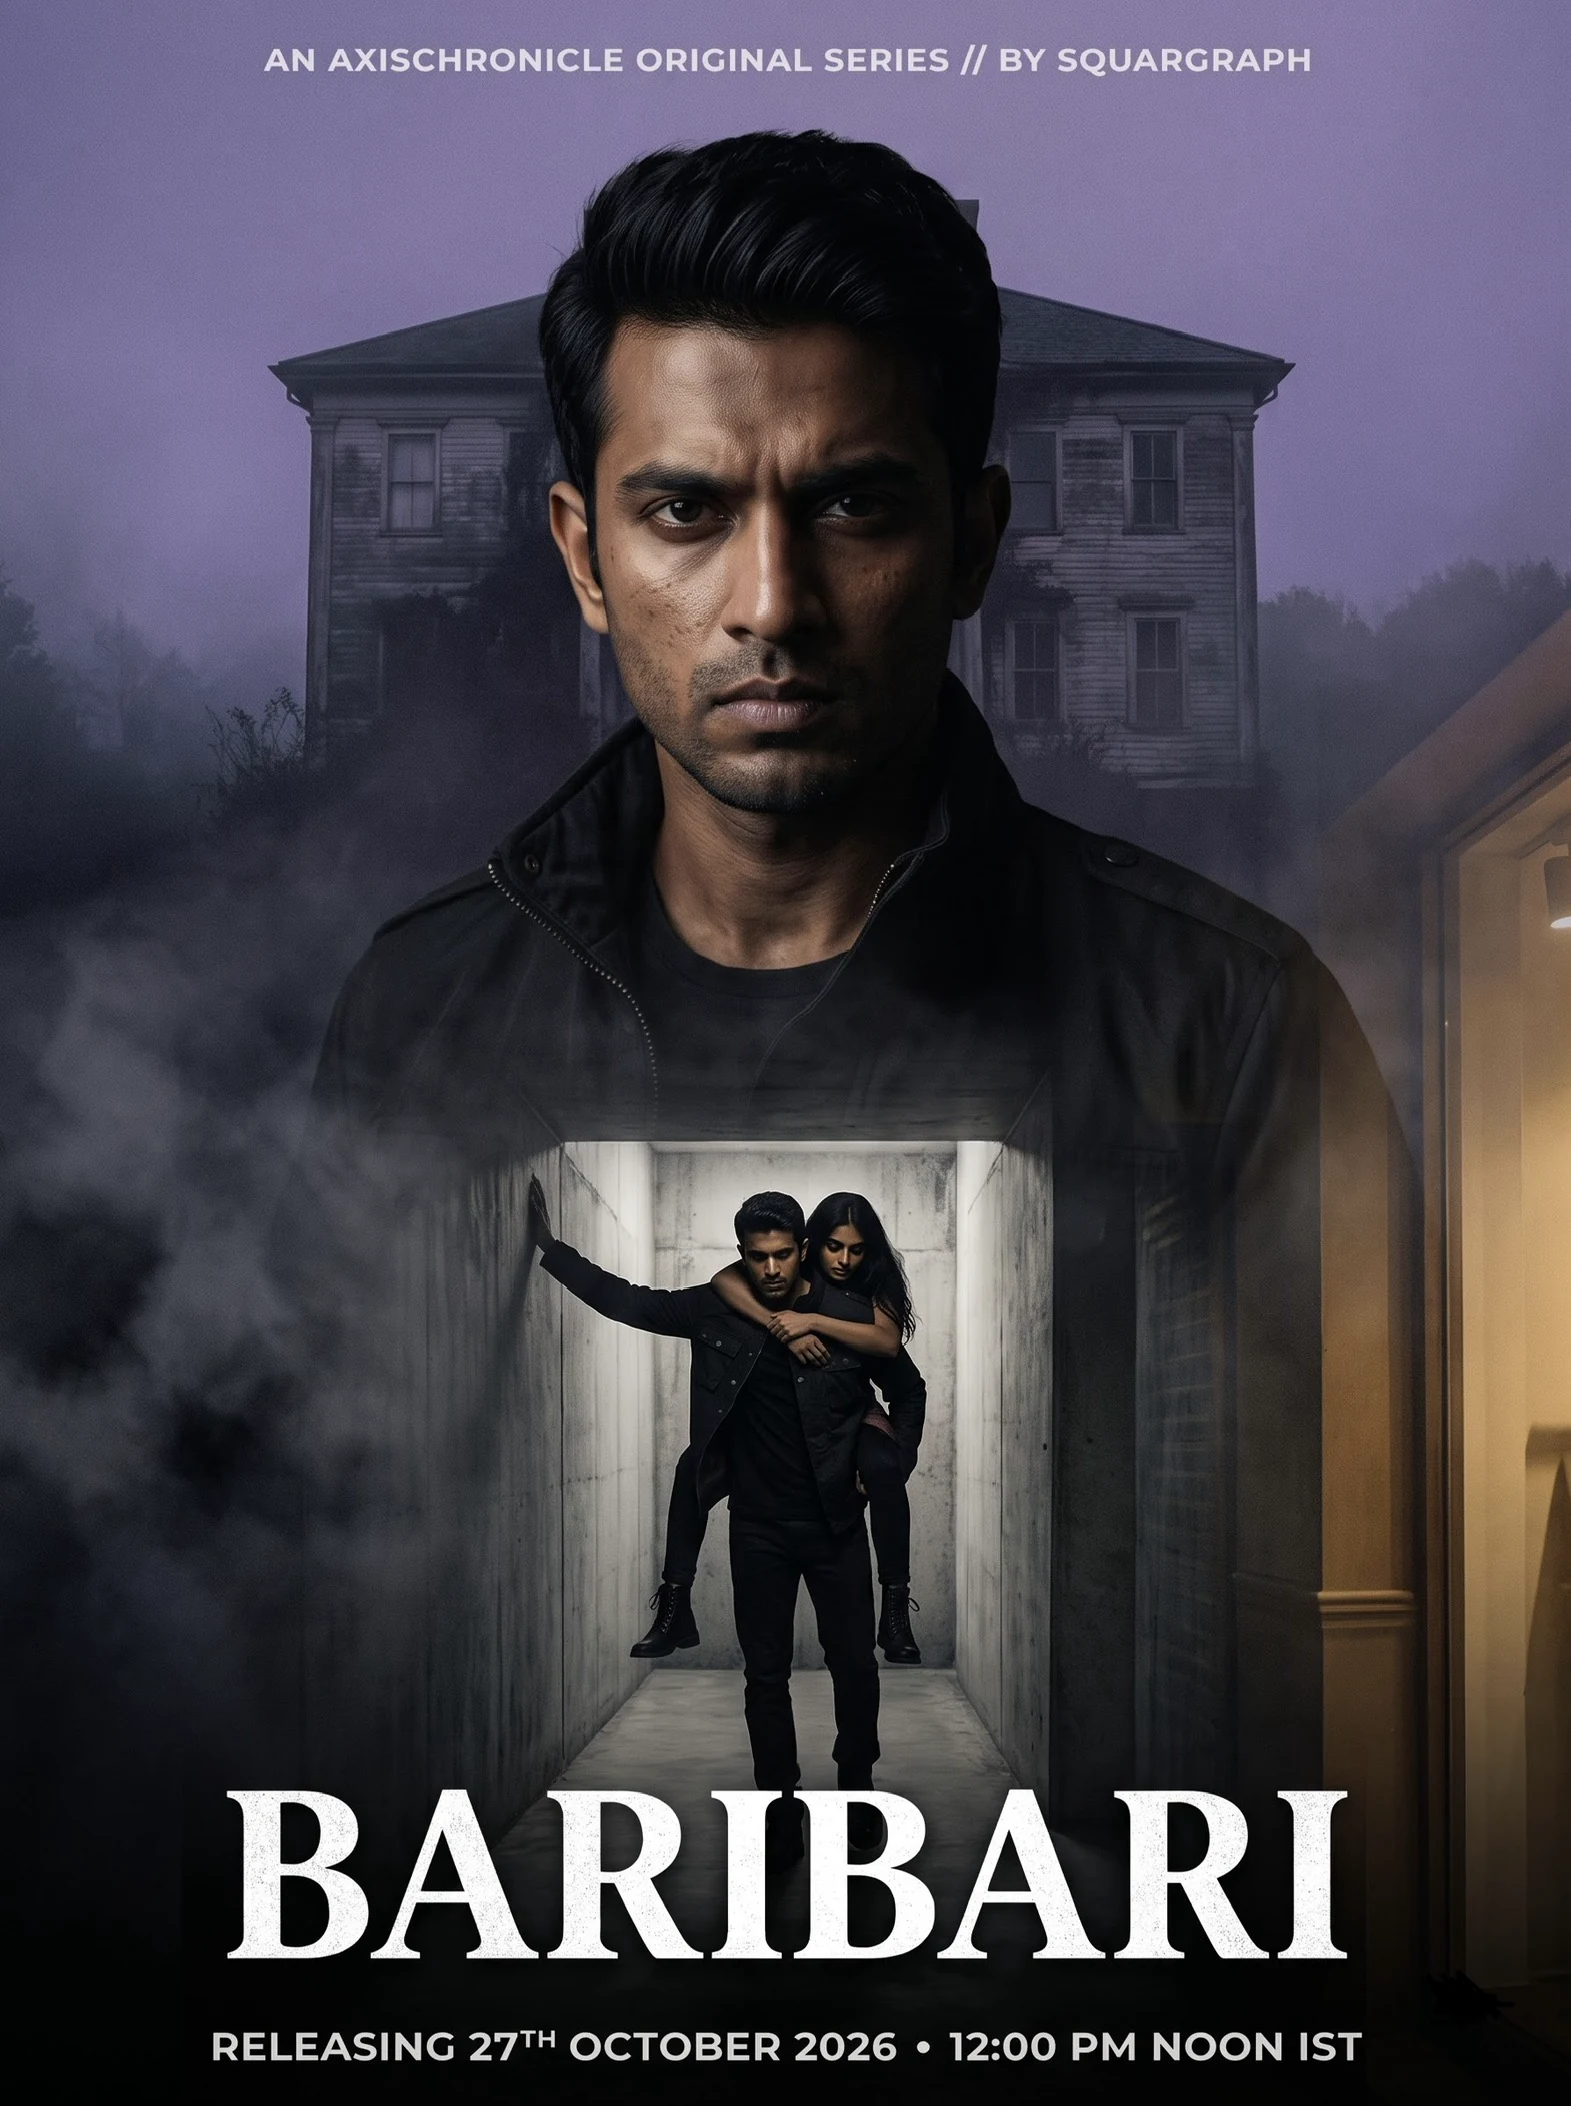
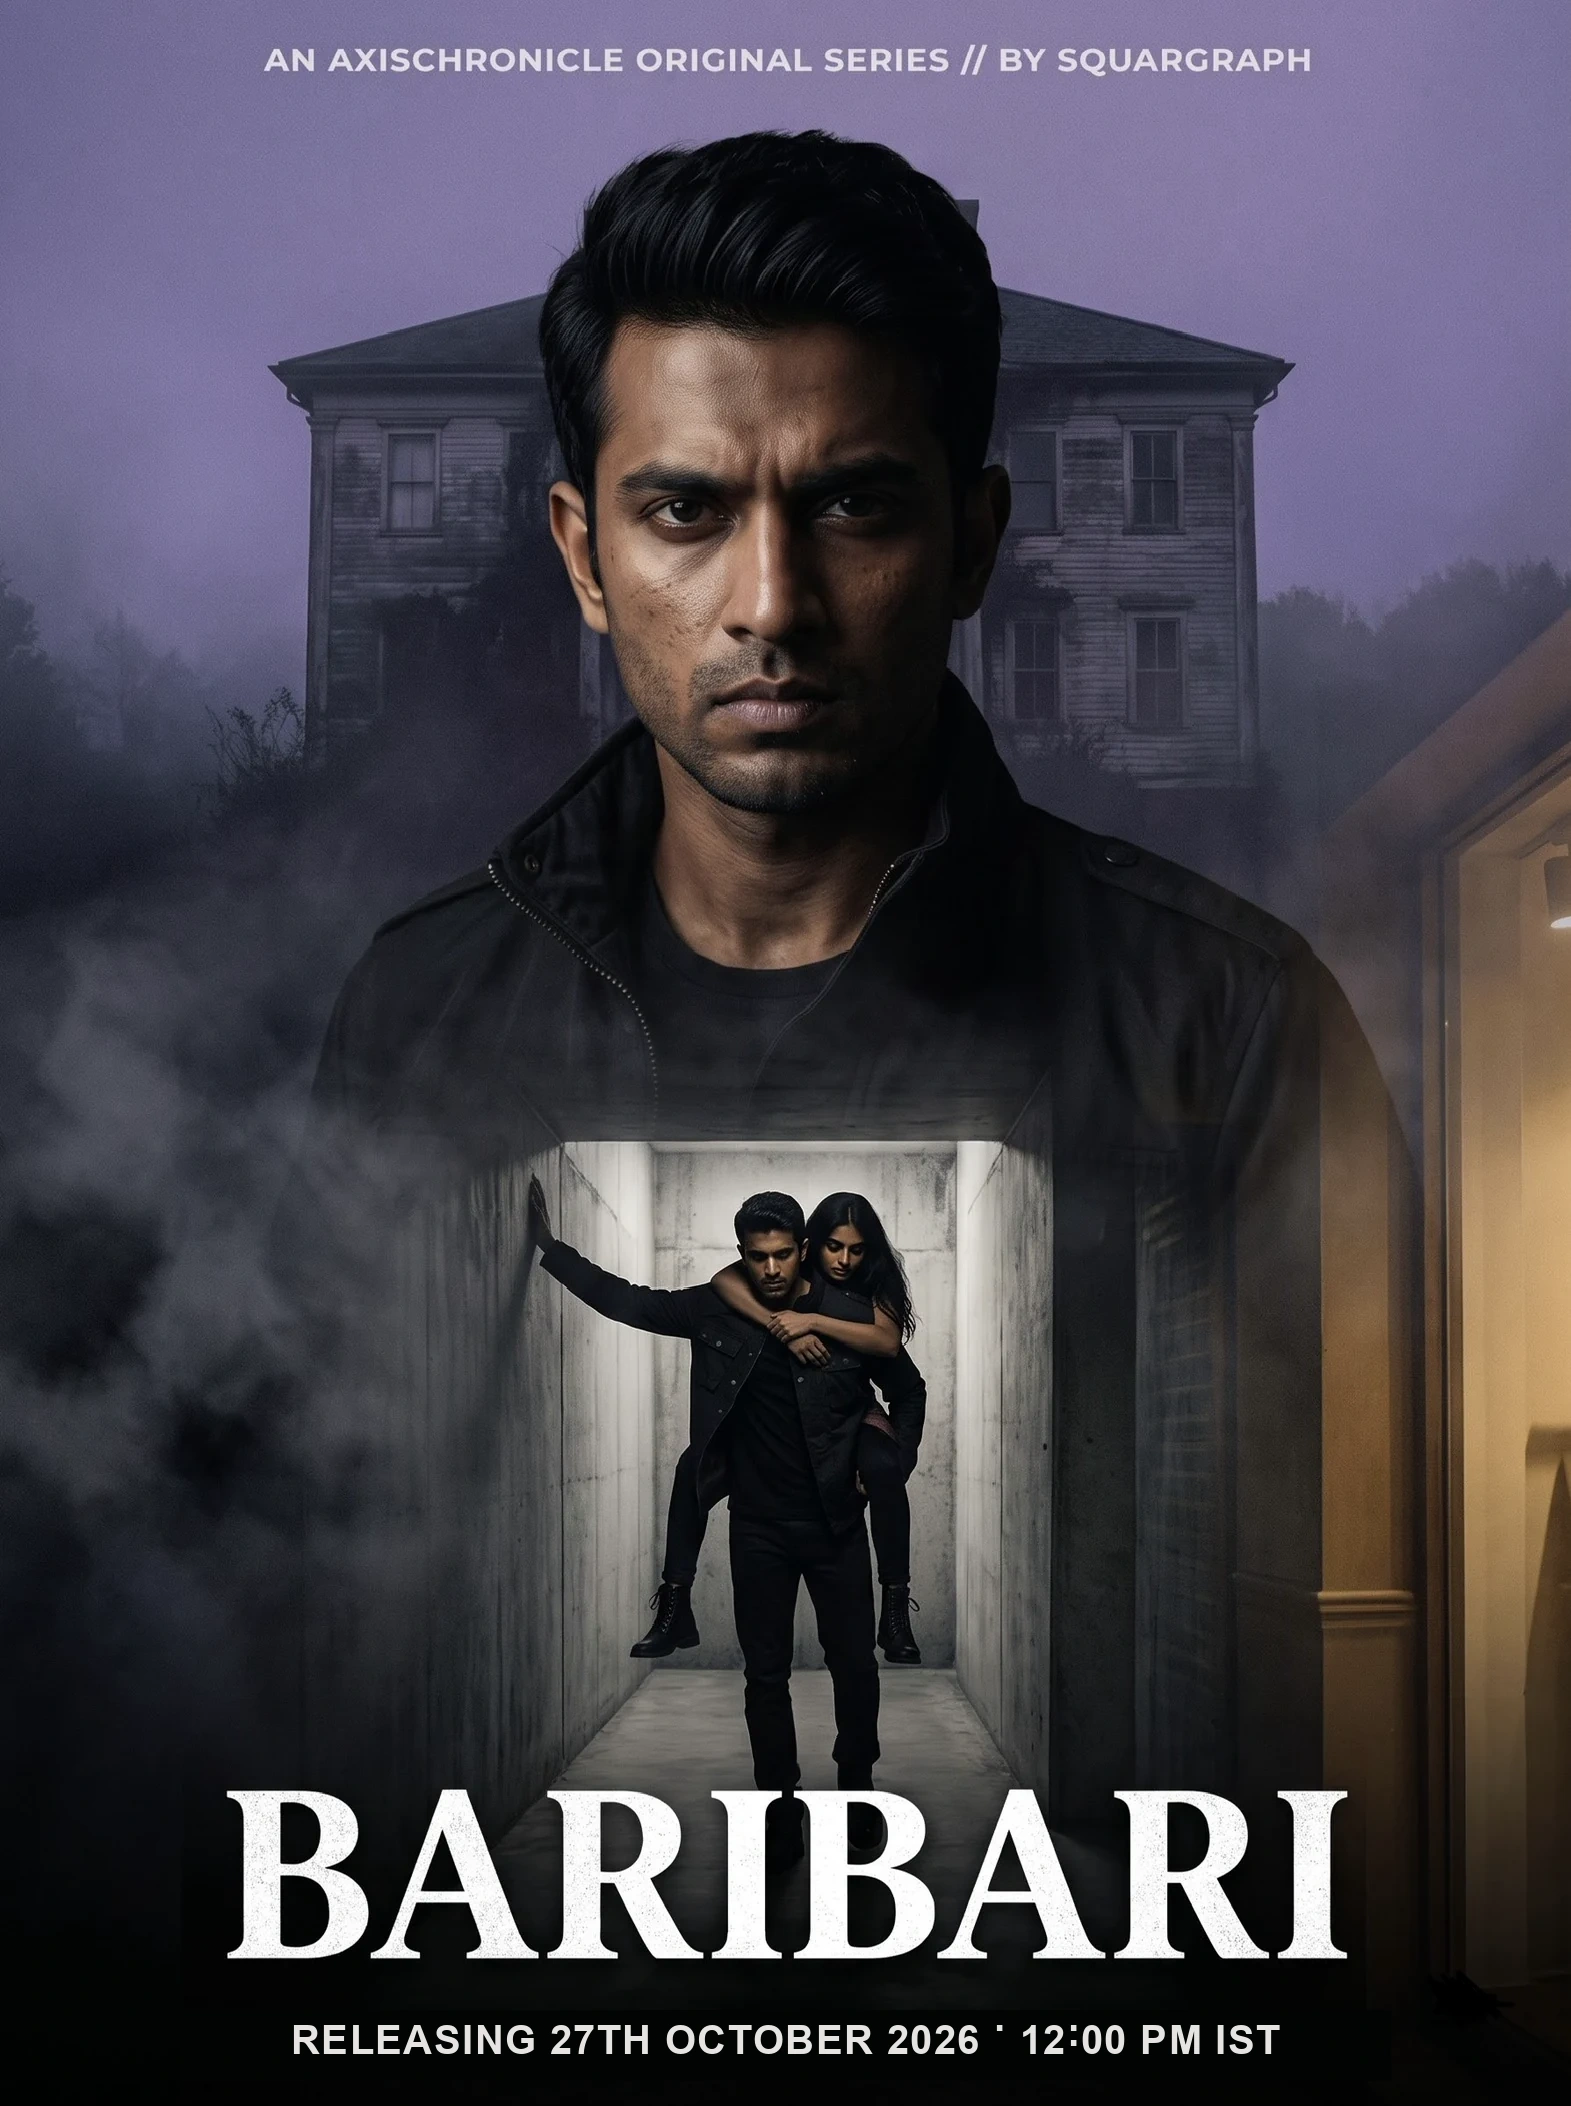
Refine Baribari premiere homepage

Changed region(s): [[0.1248, 0.9568, 0.8733, 0.9877]]

diff --git a/index.html b/index.html
@@ -5,11 +5,11 @@
   <meta name="viewport" content="width=device-width, initial-scale=1.0" />
   <meta name="theme-color" content="#050505" />
   <title>BARIBARI | AxisChronicle by SQUARGRAPH™</title>
-  <meta name="description" content="A vivid dream leaves Saurabh with one name and a question that will not fade. BARIBARI, an original psychological mystery from SQUARGRAPH™." />
+  <meta name="description" content="A vivid dream leaves Samar with one name and a question that will not fade. BARIBARI, an original psychological mystery from SQUARGRAPH™." />
   
   <link rel="canonical" href="https://axischronicle.squargraph.com/" />
-  <meta property="og:title" content="BARIBARI — Releasing 27th Oct 2026 at 12 Noon | AxisChronicle" />
-  <meta property="og:description" content="A vivid dream leaves Saurabh with one name and a question that will not fade. BARIBARI, an original mystery from SQUARGRAPH™." />
+  <meta property="og:title" content="BARIBARI — Releasing 27th Oct 2026 at 12:00 PM IST | AxisChronicle" />
+  <meta property="og:description" content="A vivid dream leaves Samar with one name and a question that will not fade. BARIBARI, an original mystery from SQUARGRAPH™." />
   <meta property="og:type" content="video.movie" />
   <meta property="og:url" content="https://axischronicle.squargraph.com/" />
   <meta property="og:site_name" content="AxisChronicle by SQUARGRAPH™" />
@@ -19,8 +19,8 @@
   <meta property="og:image:height" content="2106" />
   <meta property="og:image:alt" content="Official BARIBARI poster by AxisChronicle and SQUARGRAPH." />
   <meta name="twitter:card" content="summary_large_image" />
-  <meta name="twitter:title" content="BARIBARI — Releasing 27th Oct 2026 at 12 Noon" />
-  <meta name="twitter:description" content="A vivid dream leaves Saurabh with one name and a question that will not fade. BARIBARI, an original mystery from SQUARGRAPH™." />
+  <meta name="twitter:title" content="BARIBARI — Releasing 27th Oct 2026 at 12:00 PM IST" />
+  <meta name="twitter:description" content="A vivid dream leaves Samar with one name and a question that will not fade. BARIBARI, an original mystery from SQUARGRAPH™." />
   <meta name="twitter:image" content="https://axischronicle.squargraph.com/assets/images/baribari-official-poster.webp" />
   <meta name="twitter:image:alt" content="Official BARIBARI poster by AxisChronicle and SQUARGRAPH." />
 
@@ -199,16 +199,6 @@
       color: var(--text-hero);
     }
 
-    .nav-release-tag {
-      display: inline-flex;
-      align-items: center;
-      gap: 8px;
-      font-size: 12px;
-      font-weight: 500;
-      color: var(--accent-green-bright);
-      letter-spacing: 0.04em;
-    }
-
     .pulse-dot {
       width: 6px;
       height: 6px;
@@ -287,28 +277,14 @@
       text-shadow: 0 0 60px rgba(255, 255, 255, 0.12);
     }
 
-    .release-date-callout {
-      display: inline-block;
-      font-size: clamp(14px, 2vw, 19px);
-      font-weight: 600;
-      letter-spacing: 0.08em;
-      text-transform: uppercase;
-      color: var(--text-hero);
-      background: linear-gradient(180deg, #FFFFFF 0%, #C4C2BC 100%);
-      -webkit-background-clip: text;
-      -webkit-text-fill-color: transparent;
-      margin-bottom: 24px;
-    }
-
-    .release-platforms-tag {
+    .premiere-callout {
       display: block;
-      font-size: 13px;
+      font-size: 15px;
       font-weight: 500;
-      letter-spacing: 0.05em;
-      color: #FFFFFF;
-      margin-top: 8px;
-      text-transform: none;
-      -webkit-text-fill-color: initial;
+      letter-spacing: 0.01em;
+      color: var(--text-hero);
+      line-height: 1.55;
+      margin-bottom: 24px;
     }
 
     .release-subtag {
@@ -457,24 +433,6 @@
       box-shadow: 0 6px 26px rgba(255, 255, 255, 0.25);
     }
 
-    .btn-remind-secondary {
-      display: inline-flex;
-      align-items: center;
-      gap: 8px;
-      background: rgba(255, 255, 255, 0.03);
-      color: var(--text-primary);
-      font-size: 13px;
-      font-weight: 500;
-      letter-spacing: 0.02em;
-      padding: 12px 22px;
-      border-radius: var(--radius-pill);
-      border: 1px solid var(--border);
-      transition: all var(--transition);
-    }
-    .btn-remind-secondary:hover {
-      background: rgba(255, 255, 255, 0.07);
-      border-color: var(--border-light);
-    }
 
     /* ── Official BARIBARI Poster ── */
     .official-poster-figure {
@@ -650,34 +608,6 @@
       border-color: var(--border-light);
     }
 
-    .form-group {
-      margin-bottom: 16px;
-    }
-    .form-label {
-      display: block;
-      font-size: 11px;
-      font-weight: 600;
-      letter-spacing: 0.1em;
-      text-transform: uppercase;
-      color: var(--text-secondary);
-      margin-bottom: 6px;
-    }
-    .form-input, .form-textarea {
-      width: 100%;
-      background: rgba(255, 255, 255, 0.04);
-      border: 1px solid var(--border);
-      color: var(--text-hero);
-      font-family: inherit;
-      font-size: 14px;
-      padding: 10px 14px;
-      outline: none;
-      transition: border-color var(--transition), background var(--transition);
-    }
-    .form-input:focus, .form-textarea:focus {
-      border-color: rgba(255, 255, 255, 0.4);
-      background: rgba(255, 255, 255, 0.07);
-    }
-
     .calendar-links-row {
       display: grid;
       grid-template-columns: 1fr 1fr;
@@ -794,9 +724,6 @@
         grid-template-columns: 1fr;
         gap: 20px;
       }
-      .nav-release-tag {
-        display: none;
-      }
       .signoff-inner {
         flex-direction: column;
         align-items: flex-start;
@@ -853,10 +780,6 @@
           <a href="#film">The Film</a>
           <a href="#studio">The Imprint</a>
         </div>
-        <div class="nav-release-tag">
-          <span class="pulse-dot" aria-hidden="true"></span>
-          <span>Releasing 27th Oct 2026 · 12 Noon</span>
-        </div>
         <a href="https://squargraph.com" target="_blank" rel="noopener noreferrer" class="nav-pill-cta">
           squargraph.com <span aria-hidden="true">↗</span>
         </a>
@@ -877,14 +800,13 @@
 
         <h1 id="premiereHeading" class="series-title-hero">BARIBARI</h1>
         
-        <div class="release-date-callout">
-          Releasing 27th October 2026 · 12:00 PM Noon IST
-          <span class="release-platforms-tag">Releasing on AxisChronicle, SQUARGRAPH Platforms</span>
+        <div class="premiere-callout">
+          Premiere streams exclusively on this page.
           <span class="release-subtag">Episode 1: The Loop &amp; The Armor</span>
         </div>
 
         <!-- Live Countdown Timer -->
-        <div class="countdown-wrap" aria-label="Countdown to release: 27 October 2026 at 12 Noon">
+        <div class="countdown-wrap" aria-label="Countdown to release: 27 October 2026 at 12:00 PM IST">
           <div class="countdown-unit">
             <div id="cntDays" class="countdown-num">00</div>
             <div class="countdown-label">Days</div>
@@ -918,13 +840,6 @@
             <span>Add to Calendar</span>
           </button>
 
-          <button id="btnOpenAlertModal" class="btn-remind-secondary" type="button">
-            <svg width="14" height="14" viewBox="0 0 24 24" fill="none" stroke="currentColor" stroke-width="2" stroke-linecap="round" stroke-linejoin="round">
-              <path d="M18 8A6 6 0 0 0 6 8c0 7-3 9-3 9h18s-3-2-3-9"></path>
-              <path d="M13.73 21a2 2 0 0 1-3.46 0"></path>
-            </svg>
-            <span>Notify Me at 12 Noon</span>
-          </button>
         </div>
 
         <!-- Social Channels & Community Connect -->
@@ -958,7 +873,7 @@
           <img
             class="official-poster-image"
             src="./assets/images/baribari-official-poster.webp"
-            alt="Official BARIBARI poster showing Saurabh before a shadowed house and a corridor scene."
+            alt="Official BARIBARI poster showing Samar before a shadowed house and a corridor scene."
             width="1571"
             height="2106"
             fetchpriority="high"
@@ -974,7 +889,7 @@
           <h2 id="filmHeading">A name remains after the dream.</h2>
         </div>
         <div class="story-copy">
-          <p>A vivid dream leaves Saurabh with one name: Baribari. By morning, the memory feels close, yet impossible to hold.</p>
+          <p>A vivid dream leaves Samar with one name: Baribari. By morning, the memory feels close, yet impossible to hold.</p>
           <p>Was it only a dream, or a fragment of something real? The answer slips between what he remembers and what the morning cannot confirm.</p>
           <blockquote>“Some dreams leave more questions than memories.”</blockquote>
           <p class="story-close">BARIBARI is a psychological mystery about the fragile border between dreaming and waking.</p>
@@ -1033,7 +948,7 @@
         BARIBARI Release
       </h3>
       <p style="font-size: 14px; color: var(--text-secondary); margin-bottom: 20px;">
-        27th October 2026 at 12:00 PM Noon IST. Choose your calendar below to set an immediate reminder:
+        27th October 2026 at 12:00 PM IST. Choose your calendar below to set an immediate reminder:
       </p>
 
       <div class="calendar-links-row">
@@ -1044,32 +959,6 @@
           <span>Apple / Outlook (.ics) ↓</span>
         </button>
       </div>
-    </div>
-  </div>
-
-  <!-- Modal 2: Get Launch Alert -->
-  <div id="alertModal" class="modal-overlay" role="dialog" aria-modal="true" aria-labelledby="alertModalTitle">
-    <div class="modal-box">
-      <button class="modal-close-btn" data-close="alertModal" type="button" aria-label="Close dialog">&times;</button>
-      <div style="font-size: 11px; font-weight: 600; letter-spacing: 0.18em; text-transform: uppercase; color: var(--accent-green-bright); margin-bottom: 8px;">
-        Launch Notification
-      </div>
-      <h3 id="alertModalTitle" style="font-size: 22px; font-weight: 700; color: var(--text-hero); margin-bottom: 8px;">
-        Notify Me at 12 Noon
-      </h3>
-      <p style="font-size: 14px; color: var(--text-secondary); margin-bottom: 20px;">
-        Receive a direct link when BARIBARI Episode 1 releases on 27th Oct 2026 at 12:00 PM Noon.
-      </p>
-
-      <form id="notifyForm">
-        <div class="form-group">
-          <label class="form-label" for="notifEmail">Your Email Address</label>
-          <input type="email" id="notifEmail" class="form-input" placeholder="name@domain.com" required />
-        </div>
-        <button type="submit" class="btn-remind-primary" style="width: 100%; justify-content: center; margin-top: 10px;">
-          Set Alert ↗
-        </button>
-      </form>
     </div>
   </div>
 
@@ -1169,7 +1058,6 @@
       }
 
       setupModal('btnOpenCalendarModal', 'calendarModal');
-      setupModal('btnOpenAlertModal', 'alertModal');
 
       window.addEventListener('keydown', (e) => {
         if (e.key === 'Escape') {
@@ -1178,17 +1066,6 @@
             document.body.style.overflow = '';
           });
         }
-      });
-
-      // Notify Form Action
-      document.getElementById('notifyForm').addEventListener('submit', (e) => {
-        e.preventDefault();
-        const email = document.getElementById('notifEmail').value;
-        const subject = encodeURIComponent(`[AxisChronicle Alert] BARIBARI release: 27 Oct 12 Noon`);
-        const body = encodeURIComponent(`Please register my email for the BARIBARI release notification on 27 Oct 2026 at 12:00 PM Noon:\n\nEmail: ${email}`);
-        window.location.href = `mailto:squargraph@gmail.com?subject=${subject}&body=${body}`;
-        document.getElementById('alertModal').classList.remove('is-open');
-        document.body.style.overflow = '';
       });
 
     })();
